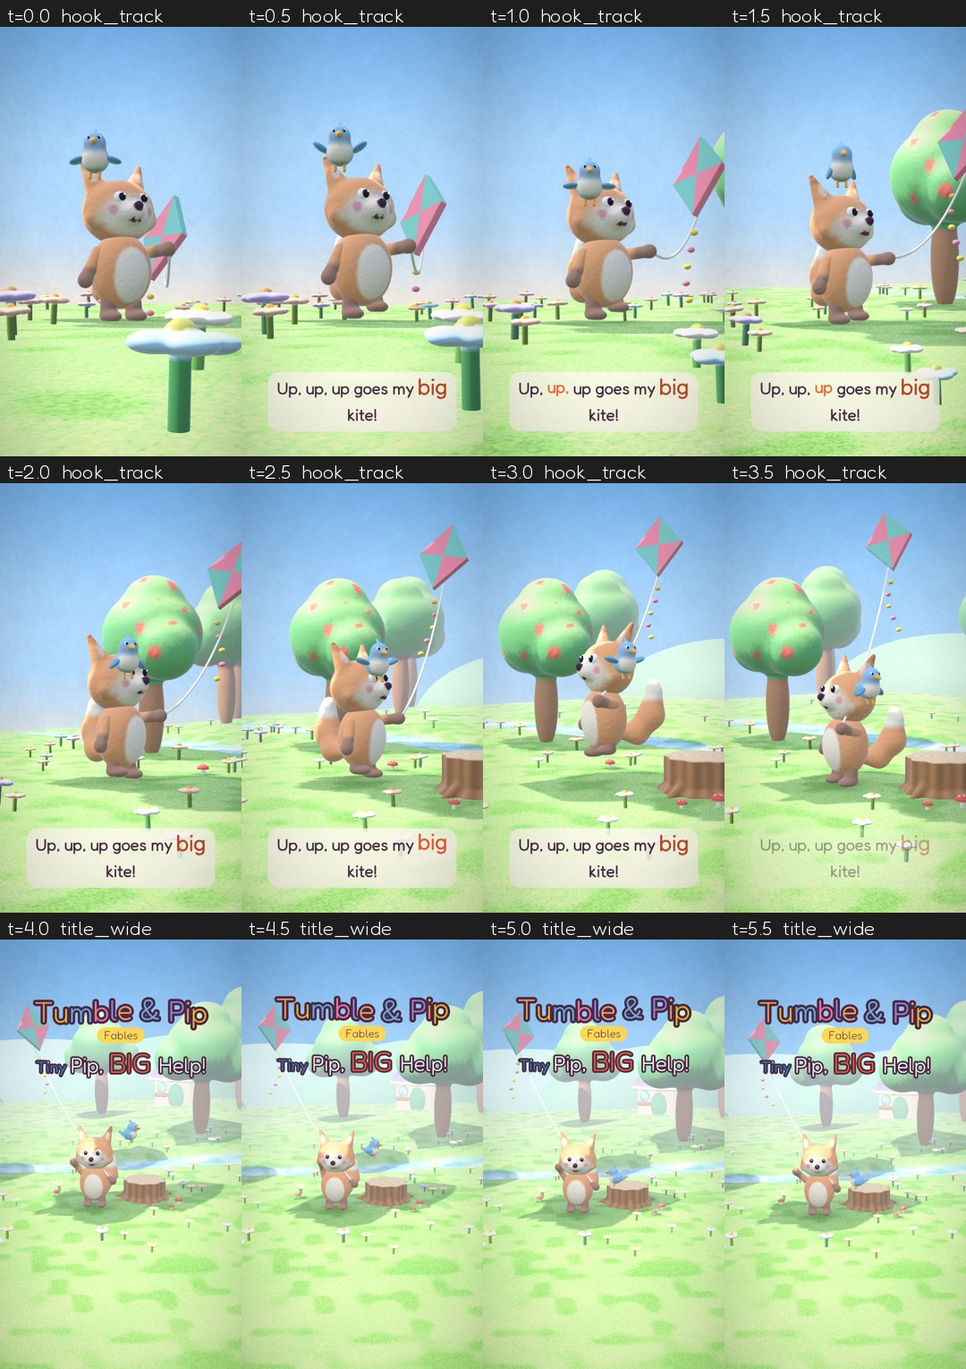
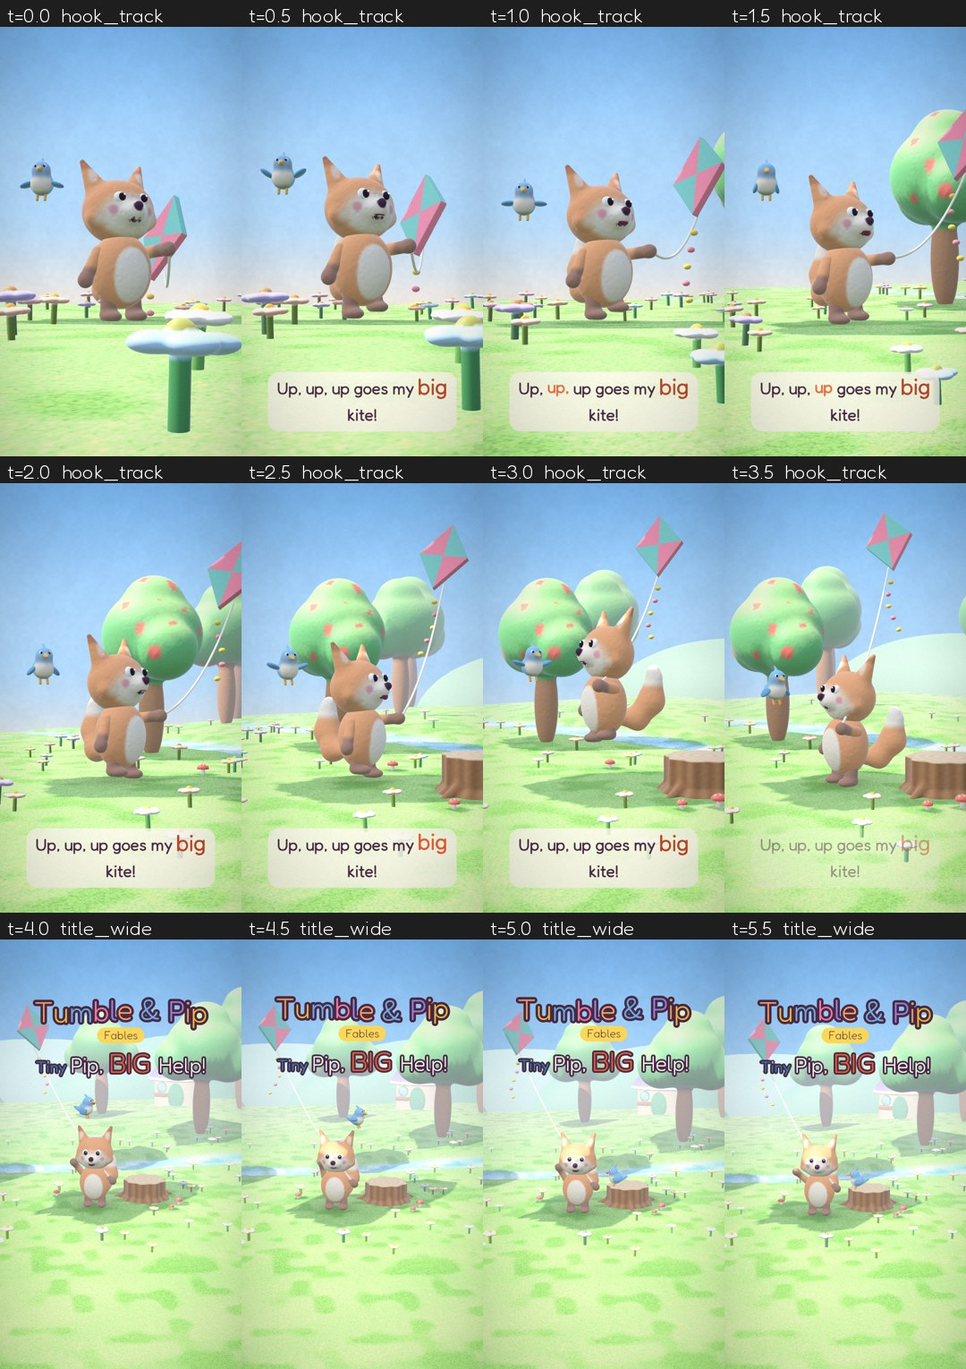
Fable 1: reviewer round 1 fixes, geometry QA back to 0
Readable peck (knot at beak height, Pip faces it, three-quarter
camera), Pip rides Tumble's paw for the series dance with a
paw-to-wing high-five, Pip beside Tumble in the hook, kite circles
above his head, cleaner take-off and button, leaves behind him.
Review log in review.md.

Claude-Session: https://claude.ai/code/session_012DiEG3BG1auD4t8c7zPpV2

diff --git a/batches/01-fables-friendship/fable-01-tiny-pip-big-help/code/render.py b/batches/01-fables-friendship/fable-01-tiny-pip-big-help/code/render.py
@@ -107,7 +107,7 @@ def tumble(t):
             st["yaw"] = math.atan2(p1[0] - p0[0], p1[1] - p0[1]) * (1 - ease(clampu(t, 2.5, 3.0))) - 0.25 * ease(clampu(t, 2.5, 3.0))
         lift = clampu(t, 2.55, 3.45)                                        # the kite tugs him up on "kite!"
         if 0 < lift < 1:
-            st["y"] += 0.38 * math.sin(math.pi * lift); st["legs"] = [0.12, 0.05]; st["sq"] += 0.06 * math.sin(math.pi * lift)
+            st["y"] += 0.62 * math.sin(math.pi * lift); st["legs"] = [0.12, 0.05]; st["sq"] += 0.06 * math.sin(math.pi * lift)
         st["arms"][0] = [0.45, 1.35 + 0.15 * lift]
         st["head"][0] = -0.2
     elif n == "title_wide":
@@ -115,12 +115,12 @@ def tumble(t):
         st["arms"][1] = [2.3 + 0.35 * math.sin((t - a) * 9), 0.25]           # waves hello
         st["head"][0] = -0.05
     elif n == "pip_ask":
-        st["head"][0] = -0.25; st["yaw"] = -0.1
+        st["head"][0] = -0.25; st["yaw"] = 0.6                              # turned towards the kite, tail swung away from Pip
         st["arms"][0] = [0.4, 1.25 + 0.08 * math.sin(t * 2)]
     elif n == "tumble_no":
         a, b = SH[n]
         u = ease(clampu(t, a, a + 0.6))
-        st["yaw"] = lerp(-0.1, math.atan2(STUMP_PIP[0] - TPOS[0], STUMP_PIP[2] - TPOS[1]) - 0.35, u)   # turns to Pip on the stump
+        st["yaw"] = lerp(0.6, math.atan2(STUMP_PIP[0] - TPOS[0], STUMP_PIP[2] - TPOS[1]) - 0.35, u)   # turns to Pip on the stump
         L = T.line("Setup B")
         if L["t0"] - 0.2 < t < L["t1"] + 0.6:                                # kind, wrong: chuckles and shakes his head
             k = (t - L["t0"])
@@ -168,23 +168,24 @@ def tumble(t):
         a, b = SH[n]
         st["yaw"] = -0.05; st["hold"] = False
         st["arms"] = [[1.3, 0.35], [0.15, 0.0]]                           # Pip sits on his raised paw, clear of his face
-        st["head"][0] = -0.05; st["head"][2] = -0.07          # paw out at shoulder height, head tipped away (pose solved for clearance)
+        st["head"][0] = -0.05; st["head"][2] = 0.08          # paw out at shoulder height, head tipped away (pose solved for clearance)
         L = T.line("Moral")
         if L and L["t0"] < t < L["t1"] + 0.3: st["y"] += 0.025 * abs(math.sin((t - L["t0"]) * 8))
     elif n == "chorus":
         a, b = SH[n]
         st["yaw"] = -0.05; st["hold"] = False
-        sway = math.sin(2 * math.pi * (t - a) / (2 * BEAT))                   # sway on every second beat
-        st["roll"] = 0.11 * sway; st["head"][2] = 0.1 * sway
-        st["arms"] = [[1.15, 0.2], [0.7 - 0.3 * sway, 0.3]]                 # paw out to link with Pip's wing
-        hf = clampu(t, T.HIGH_FIVE - 0.35, T.HIGH_FIVE + 0.15)
-        if hf > 0: st["arms"][0] = [lerp(1.15, 2.4, ease(hf)), 0.2]
+        sway = math.sin(2 * math.pi * (t - a) / (2 * BEAT))                   # sway on every second beat, Pip riding his paw
+        st["roll"] = 0.06 * sway; st["head"][2] = 0.1                                  # tips away from Pip (positive roll moves the crown to -x)
+        st["arms"] = [[1.3, 0.35], [0.6 - 0.3 * sway, 0.3]]
+        hf = clampu(t, T.HIGH_FIVE - 0.35, T.HIGH_FIVE + 0.35)
+        if 0 < hf < 1: st["arms"][0] = [1.3 + 0.3 * math.sin(math.pi * hf), 0.35]       # paw comes up to meet Pip's wing
     elif n == "button_crane":
         a, b = SH[n]
         st["yaw"] = -0.05; st["hold"] = False
         ph = (t - a) * 2 * math.pi * 1.5
-        st["arms"] = [[2.4 + 0.25 * math.sin(ph), 0.2], [2.4 + 0.25 * math.sin(ph + 1), 0.2]]   # cheers
-        st["y"] += 0.08 * abs(math.sin(ph * 0.5)); st["head"][0] = -0.3
+        up_ = ease(clampu(t, a + 0.45, a + 0.8))                           # the paw Pip leaves from rises only once he is clear
+        st["arms"] = [[lerp(1.3, 2.4 + 0.25 * math.sin(ph), up_), lerp(0.35, 0.2, up_)], [2.4 + 0.25 * math.sin(ph + 1), 0.2]]   # cheers
+        st["y"] += 0.08 * abs(math.sin(ph * 0.5)); st["head"][0] = -0.3 * up_; st["head"][2] = 0.1 * (1 - up_)   # keeps the chorus tilt until Pip is clear
     if n in ("chorus", "button_crane", "moral"): st["x"], st["z"] = TPOS
     return st
 
@@ -242,7 +243,7 @@ def kite_state(t, st):
 def orbit_pos(t):
     ang = kite_orbit_angle(min(max(t, ORBIT_A), ORBIT_B))
     u = clampu(t, ORBIT_A, ORBIT_B)
-    r = lerp(2.6, 1.4, u); hgt = lerp(3.2, 1.7, u)
+    r = lerp(2.6, 1.8, u); hgt = lerp(3.4, 2.6, u)                       # circles above head height
     return np.array([TPOS[0] + r * math.sin(ang), hgt + 0.15 * math.sin(t * 5), TPOS[1] + r * math.cos(ang)])
 
 # ---------------- string ----------------
@@ -271,7 +272,8 @@ def string_path(t, st, mats, kite_p, pip_beak):
     w = wrap_amt(t)
     kite_low = kite_p + np.array([0, -0.55, 0])                            # bridle point under the diamond
     if t >= SH["button_crane"][0] + 0.25 and pip_beak is not None:
-        return [pip_beak] + sag_line(pip_beak, kite_low, 0.25, 30)[1:]
+        lowk = 1 - clampu(kite_p[1], 0.3, 2.5) / 2.5                         # droops across the grass while the kite is still low
+        return [pip_beak] + sag_line(pip_beak, kite_low, 0.25 + 1.2 * lowk, 30)[1:]
     if st["hold"] and w < 0.05:
         return sag_line(hand, kite_low, 0.35 if t < T.GUST0 else 0.1, 30)
     if t < T.SPIN0:
@@ -290,10 +292,13 @@ def string_path(t, st, mats, kite_p, pip_beak):
 # ---------------- Pip ----------------
 PIP_FOOT = 0.060
 UP = np.array([0, PIP_FOOT, 0])
+PAW_TOP = 0.088                              # paw sphere radius 0.1, minus a little so the feet rest on the clay
 STUMP_PIP = np.array([STUMP[0] - 0.4, surf(*STUMP) + STUMP_TOP, STUMP[1] + 0.12]) + UP
+KNOT_L = (-0.22, 0.78, COIL_RZ + 0.04)       # on the coil, low on his chest once he lies on his side (beak height)
 def knot_ground(R):
-    c = apply(R, (0.0, 0.78, COIL_RZ + 0.3))                                 # in front of his chest while he lies down
-    return np.array([c[0], surf(c[0], c[2]), c[2]]) + UP, c
+    """Pip's spot in front of the knot, and the knot itself"""
+    kc = apply(R, KNOT_L); f = apply(R, (KNOT_L[0], KNOT_L[1], KNOT_L[2] + 0.24))
+    return np.array([f[0], surf(f[0], f[2]), f[2]]) + UP, kc
 def pip_state(t, st, mats):
     """returns pos, yaw, flying, pitch, perch flag, extra dict"""
     R, Mh, arms, legs = mats
@@ -301,13 +306,13 @@ def pip_state(t, st, mats):
     def on_ground(x, z): return np.array([x, surf(x, z), z]) + UP
     yaw_to_tumble = math.atan2(st["x"] - STUMP_PIP[0], st["z"] - STUMP_PIP[2])
     if n == "hook_track":
-        p = np.array([st["x"] + 0.9, 1.7 + 0.2 * math.sin(t * 5), st["z"] + 0.5])
+        p = np.array([st["x"] - 0.6, 1.65 + 0.2 * math.sin(t * 5), st["z"] + 1.0])   # same depth as Tumble, beside him on screen
         return p, 1.3, True, 0.0, False, {}
     if n == "title_wide":
         a, b = SH[n]; u = clampu(t, a, a + 1.4)
-        p0 = np.array([TPOS[0] + 0.9, 1.7, TPOS[1] + 0.5])
+        p0 = np.array([TPOS[0] - 0.6, 1.65, TPOS[1] + 1.0])
         if u < 1:
-            p = lerp(p0, STUMP_PIP, ease(u)); p[1] += 0.5 * math.sin(math.pi * u)
+            p = lerp(p0, STUMP_PIP, ease(u)); p[1] += 1.5 * math.sin(math.pi * u)        # arcs high over Tumble's head
             return p, 1.0, True, 0.0, False, {}
         return STUMP_PIP, yaw_to_tumble - 0.5, False, 0.0, True, {}
     if n == "pip_ask":
@@ -327,12 +332,13 @@ def pip_state(t, st, mats):
         return STUMP_PIP, yaw_to_tumble + 0.15 * g * math.sin(t * 15), False, -0.12 * g, True, {"cling": g}
     if n == "overhead_tangled":
         a, b = SH[n]
-        dest, _ = knot_ground(R)
+        dest, kc = knot_ground(R)
         u = clampu(t, a + 0.5, a + 1.8)
         if u < 1:
             p = lerp(STUMP_PIP, dest, ease(u)); p[1] += 0.9 * math.sin(math.pi * u)
             return p, math.atan2(dest[0] - STUMP_PIP[0], dest[2] - STUMP_PIP[2]), u > 0, 0.0, False, {}
-        return dest, math.atan2(st["x"] - dest[0], st["z"] - dest[2]), False, 0.0, False, {}
+        kc = knot_ground(R)[1]
+        return dest, math.atan2(kc[0] - dest[0], kc[2] - dest[2]), False, 0.0, False, {}
     if n == "peck":
         dest, c = knot_ground(R)
         pitch = 0.0
@@ -361,24 +367,22 @@ def pip_state(t, st, mats):
         return top, 0.35, False, 0.0, True, {}
     if n == "chorus":
         a, b = SH[n]
-        u = clampu(t, a, a + 0.6)
-        if u < 1:
-            hand = apply(fox_mats(tumble(SH["moral"][1] - 0.01))[2][0], FOXD["arm0"]["hand"]) + np.array([0, 0.095, 0]) + UP
-            p = lerp(hand, STUMP_PIP, ease(u)); p[1] += 0.3 * math.sin(math.pi * u); p[0] += 0.25 * math.sin(math.pi * min(1.0, 2 * u))   # out, away from his face
-            return p, 0.6, True, 0.0, False, {}
-        p = STUMP_PIP.copy()
+        top = apply(arms[0], FOXD["arm0"]["hand"]) + np.array([0, PAW_TOP, 0]) + UP
         sway = math.sin(2 * math.pi * (t - a) / (2 * BEAT))
-        hf = clampu(t, T.HIGH_FIVE - 0.3, T.HIGH_FIVE + 0.4)
-        ex = {"link": hf <= 0, "sway": sway}
-        if hf > 0:
-            p[1] += 0.55 * math.sin(math.pi * hf); ex["highfive"] = True
-        return p, -0.9, hf > 0, 0.0, hf <= 0, ex
+        hf = clampu(t, T.HIGH_FIVE - 0.35, T.HIGH_FIVE + 0.35)
+        ex = {"sway": sway}
+        if 0 < hf < 1:                                                      # hops up, wing down to slap the rising paw
+            top = top + np.array([0, 0.42 * math.sin(math.pi * hf), 0]); ex["highfive"] = True
+            return top, 0.35, True, 0.0, False, ex
+        return top, 0.35, False, 0.0, True, ex
     # button: Pip grabs the loose string end and flies the kite up
     a, b = SH["button_crane"]
     u = clampu(t, a, b)
-    p0 = STUMP_PIP; p1 = np.array([TPOS[0] + 0.7, 2.7, TPOS[1] + 0.2])
-    p = lerp(p0, p1, ease(u)) + np.array([0, 0.08 * math.sin(t * 9), 0])
-    return p, -0.3, True, -0.15, False, {"beak": True}
+    p0 = apply(arms[0], FOXD["arm0"]["hand"]) + np.array([0, PAW_TOP, 0]) + UP if t < a + 0.05 else apply(fox_mats(tumble(a - 0.01))[2][0], FOXD["arm0"]["hand"]) + np.array([0, PAW_TOP, 0]) + UP
+    p1 = np.array([TPOS[0] + 0.7, 2.7, TPOS[1] + 0.2])
+    p = lerp(p0, p1, ease(u)) + np.array([0, 0.08 * math.sin(t * 9), 0]) * u
+    p += np.array([0.55, 0.15, 0.25]) * math.sin(math.pi * min(1.0, u * 1.6))     # out and away from his face first
+    return p, lerp(0.35, -0.3, ease(clampu(t, a + 0.3, a + 0.9))), True, -0.15 * clampu(t, a + 0.2, a + 0.5), False, {"beak": True}   # keeps the chorus heading until clear
 
 # ---------------- camera (aspect-fitted) ----------------
 def fit_cam(tgt, yaw_deg, pitch_deg, fit_w, fit_h, fov=38.0, lift=None):
@@ -404,7 +408,7 @@ def camera(t):
         return fit_cam(np.array([2.0, 1.6 + 0.3 * e, -1.0]), -8, 12 - 2 * e, 3.4, 3.2 if not WIDE else 2.4, lift=0.05)
     if name == "pip_ask":                                                   # macro on Pip on the stump
         e = ease(u)
-        return fit_cam(STUMP_PIP + np.array([0, 0.25, 0]), lerp(28, 20, e), 6, 0.42, 0.55, fov=34)
+        return fit_cam(STUMP_PIP + np.array([0.12 if WIDE else 0.0, 0.25, 0]), lerp(28, 20, e) if not WIDE else lerp(16, 22, e), 6, 0.42, 0.55, fov=34)
     if name == "tumble_no":                                                 # over Pip's shoulder at Tumble
         e = ease(u)
         tgt = lerp(STUMP_PIP + np.array([0, 0.3, 0]), tp + np.array([0, 0.6, 0]), 0.78)
@@ -421,19 +425,19 @@ def camera(t):
     if name == "peck":                                                      # macro at the knot
         e = ease(u)
         R = fox_mats(st)[0]
-        _, c = knot_ground(R)
-        pg = knot_ground(R)[0]
-        tgt = lerp(c, pg, 0.4)
-        ax = math.degrees(math.atan2(c[0] - pg[0], c[2] - pg[2]))            # Pip-to-knot axis; film it side-on
-        yaw = min((ax + 90, ax - 90), key=lambda y: -math.cos(math.radians(y)))
-        return fit_cam(tgt + np.array([0, 0.08, 0]), yaw + lerp(-8, 4, e), 10, 0.6, 0.7, fov=34)
+        pg, kc = knot_ground(R)
+        tgt = lerp(kc, pg, 0.5); tgt[1] = 0.4
+        ax = math.degrees(math.atan2(kc[0] - pg[0], kc[2] - pg[2]))          # Pip-to-knot axis; film it side-on
+        yaw = min((ax + 118, ax - 118), key=lambda y: -math.cos(math.radians(y)))   # three-quarter front of Pip, knot in profile
+        return fit_cam(tgt, yaw + lerp(-6, 6, e), 8, 0.62, 0.62, fov=34, lift=0.12)
     if name == "spin_out":                                                  # wide: spins up like a top
-        return fit_cam(np.array([TPOS[0] + 0.35, 1.05, TPOS[1]]), -6, 6, 1.9, 1.7)
+        e = ease(clampu(t, SH[name][0], T.SPIN1))
+        return fit_cam(np.array([lerp(TPOS[0] - 0.5, TPOS[0] + 0.35, e), 1.05, TPOS[1]]), -6, 6, lerp(2.4, 1.9, e), 1.7)
     if name == "moral":                                                     # slow push-in two-shot
         e = ease(u)
         return fit_cam(np.array([TPOS[0] + 0.35, lerp(1.35, 1.45, e), TPOS[1]]), lerp(12, 6, e), 5, lerp(1.25, 1.05, e), lerp(1.4, 1.1, e))
     if name == "chorus":                                                    # medium front, both in frame for the dance
-        return fit_cam(np.array([(TPOS[0] + STUMP_PIP[0]) / 2, 1.05, (TPOS[1] + STUMP_PIP[2]) / 2]), 6, 6, 1.45, 1.35)
+        return fit_cam(np.array([TPOS[0] + 0.35, 1.2, TPOS[1]]), 6, 6, 1.3, 1.35)
     # button: crane up following the kite
     e = ease(u)
     return fit_cam(np.array([TPOS[0] + 0.1, lerp(1.2, 2.6, e), TPOS[1] - 0.5]), 4, lerp(4, 18, e), lerp(1.7, 2.6, e), lerp(1.8, 2.6, e), lift=0.06)
@@ -491,8 +495,8 @@ def build_draws(t):
     if g > 0.01:                                                            # blowing leaves show the gust
         for k in range(16):
             ph = (t * 0.55 + k / 16.0) % 1.0
-            x = TPOS[0] - 4.5 + 9.0 * ph; z = TPOS[1] - 1.5 + 3.0 * ((k * 0.37) % 1.0)
-            y = 0.4 + 1.6 * ((k * 0.61) % 1.0) + 0.3 * math.sin(t * 4 + k)
+            x = TPOS[0] - 4.5 + 9.0 * ph; z = TPOS[1] - 0.9 - 2.4 * ((k * 0.37) % 1.0)          # a band behind him, clear of faces
+            y = 0.3 + 1.9 * ((k * 0.61) % 1.0) + 0.25 * math.sin(t * 4 + k)
             draws.append((SC["leaf"], trans(x, y, z) @ rotz(t * 7 + k) @ rotx(t * 5 + k) @ scale(1.6 * g),
                           U(mat=0, bump=0.0, tint=(0.55, 0.8, 0.45) if k % 3 else (0.95, 0.75, 0.4), tintMix=1.0), False))
     # ---- Tumble ----
@@ -510,7 +514,7 @@ def build_draws(t):
     fi_ = min(int(t * FPS), len(MOUTH["tumble"]) - 1)
     mo = MOUTH["tumble"][fi_]
     if mo > 0.06:
-        draws.append((PR["mouth"], Mh @ trans(*FOXD["mouth"]["c"]) @ scale(0.075, 0.065 * mo, 0.03), U(mat=0, bump=0.0), False))
+        draws.append((PR["mouth"], Mh @ trans(*(np.array(FOXD["mouth"]["c"]) + np.array([0, 0, 0.015]))) @ scale(0.085, 0.07 * mo, 0.035), U(mat=0, bump=0.0), False))
     if st["lie"] < 0.5: contacts.append((st["x"], st["z"], 0.75, max(0.0, 1 - st["y"] * 1.5)))
     else: contacts.append((st["x"] - 0.4, st["z"], 1.0, 1.0))
     # ---- Pip ----
@@ -519,7 +523,8 @@ def build_draws(t):
     sq = -0.12 * pex.get("cling", 0.0)
     Mp = trans(*pp) @ roty(pyaw) @ rotx(ppitch) @ scale(1.1 * (1 - sq * 0.5), 1.1 * (1 + sq), 1.1 * (1 - sq * 0.5))
     draws.append((PIPP["body"], Mp, dict(up, perch=pperch), True))
-    if pfly: flap = 0.9 * math.sin(t * 28)
+    if pfly and pex.get("beak") and t < SH["button_crane"][0] + 0.35: flap = -0.1 + 0.6 * clampu(t, SH["button_crane"][0], SH["button_crane"][0] + 0.35) * (0.5 + 0.5 * math.sin(t * 28))   # take-off flaps stay up, clear of his cheek
+    elif pfly: flap = 0.9 * math.sin(t * 28)
     elif pex.get("droop"): flap = 0.04 - 0.25 * pex["droop"]
     elif pex.get("cheer"): flap = 1.1 + 0.5 * math.sin(t * 14)
     else: flap = 0.04 + 0.04 * math.sin(t * 3)
@@ -528,7 +533,7 @@ def build_draws(t):
         fl = flap
         if wi == 0 and pex.get("point"): fl = 1.3 + 0.12 * math.sin(t * 10)
         if pex.get("link") and wi == 1: fl = 0.9 + 0.15 * pex.get("sway", 0.0)          # wing out to Tumble's paw
-        if pex.get("highfive") and wi == 1: fl = 1.6
+        if pex.get("highfive") and wi == 0: fl = -0.6                    # wing swings down onto the paw
         Mw = Mp @ trans(*pv) @ rotz(sgn * fl) @ trans(*(-np.array(pv)))
         draws.append((PIPP[f"wing{wi}"], Mw, up, True))
     eyes(draws, Mp, PIPD["eyes"]["centers"], PIPD["eyes"]["r"], blink(t, 1.3, 2.7), U)
@@ -537,6 +542,13 @@ def build_draws(t):
         draws.append((PR["mouth"], Mp @ trans(0, 0.295, 0.19) @ scale(0.028, 0.022 * mp_, 0.02), U(mat=0, bump=0.0), False))
     if not pfly: contacts.append((pp[0], pp[2], 0.2, 1.0))
     beak = apply(Mp, (0, 0.31, 0.27)) if pex.get("beak") else None
+    d_hf = t - T.HIGH_FIVE
+    if 0 <= d_hf < 0.4 and T.shot_at(t)[1] == "chorus":                     # star puff on the high-five
+        hc = apply(arms[0], FOXD["arm0"]["hand"]) + np.array([0, 0.2, 0])
+        for k in range(8):
+            a_ = k * 2 * math.pi / 8
+            q = hc + np.array([math.cos(a_), math.sin(a_), 0.3]) * (0.12 + 0.7 * d_hf)
+            draws.append((PR["ball"], trans(*q) @ scale(0.05 * (1 - d_hf / 0.4)), U(mat=0, bump=0.0, tint=(1.0, 0.88, 0.35), tintMix=1.0), False))
     # ---- kite, string, knot ----
     kp, kR = kite_state(t, st)
     Mk = trans(*kp) @ kR @ scale(1.15)
@@ -554,21 +566,21 @@ def build_draws(t):
         M = seg_M(np.asarray(a_), np.asarray(b_), 0.02)
         if M is not None: draws.append((PR["stick"], M, U(mat=0, bump=0.0, tint=(0.98, 0.96, 0.9), tintMix=1.0), False))
     if wrap_amt(t) >= 0.999 and t < T.SHOTS[[n for a, b, n in T.SHOTS].index("spin_out")][0]:
-        kc = apply(R, (0.0, 0.78, COIL_RZ + 0.02))
+        kc = apply(R, KNOT_L)
         pop = clampu(t, T.KNOT_POP, T.KNOT_POP + 0.12)
         if t < T.KNOT_POP + 0.25:
             jig = 0.0
             for pt in T.PECKS:
                 d = t - pt
                 if 0 <= d < 0.2: jig = 0.3 * math.sin(math.pi * d / 0.2)
-            draws.append((PR["ball"], trans(*kc) @ scale(0.055 * (1 + jig + 0.8 * pop) * (1 - clampu(t, T.KNOT_POP + 0.12, T.KNOT_POP + 0.25))),
+            draws.append((PR["ball"], trans(*kc) @ scale(0.075 * (1 + jig + 0.8 * pop) * (1 - clampu(t, T.KNOT_POP + 0.12, T.KNOT_POP + 0.25))),
                           U(mat=0, bump=0.0, tint=(0.98, 0.96, 0.9), tintMix=1.0), False))
         if 0 <= t - T.KNOT_POP < 0.45:                                      # pop puff
             d = t - T.KNOT_POP
             for k in range(7):
                 a_ = k * 2 * math.pi / 7
-                p = kc + np.array([math.cos(a_), math.sin(a_), 0.4]) * (0.1 + 0.6 * d)
-                draws.append((PR["ball"], trans(*p) @ scale(0.03 * (1 - d / 0.45)), U(mat=0, bump=0.0, tint=(1.0, 0.95, 0.7), tintMix=1.0), False))
+                p = kc + np.array([math.cos(a_), math.sin(a_), 0.5]) * (0.1 + 0.9 * d)
+                draws.append((PR["ball"], trans(*p) @ scale(0.055 * (1 - d / 0.45)), U(mat=0, bump=0.0, tint=(1.0, 0.95, 0.7), tintMix=1.0), False))
     return draws, contacts
 
 def draw_pass(draws, contacts, eye, tgt, fov, vp):

diff --git a/batches/01-fables-friendship/fable-01-tiny-pip-big-help/code/timeline.py b/batches/01-fables-friendship/fable-01-tiny-pip-big-help/code/timeline.py
@@ -119,5 +119,5 @@ WHOOSH = (word_times("whoosh", "Problem A") or [_pa[0] + 0.2])[0]
 KNOT_POP = (PECKS[-1] if PECKS else _tw[0] + 2.5) + 0.45
 GUST0, GUST1 = WHOOSH - 0.2, _pa[1] - 0.3             # kite swoops and circles Tumble
 TOPPLE = (word_times("tangled", "Problem B") or [_pb[0] + 1.4])[0]   # he tips over on "tangled", lands by "ground"
-SPIN0, SPIN1 = TW_SPLIT + 0.25, TW_SPLIT + 1.9
+SPIN0, SPIN1 = TW_SPLIT + 0.05, TW_SPLIT + 1.9
 HIGH_FIVE = _c[1] - 0.9

diff --git a/batches/01-fables-friendship/fable-01-tiny-pip-big-help/review.md b/batches/01-fables-friendship/fable-01-tiny-pip-big-help/review.md
@@ -1,0 +1,41 @@
+# Review log: Tumble & Pip Fables 1, Tiny Pip, Big Help!
+
+The independent reviewer subagent followed `tools/REVIEWER.md`. It worked from contact sheets with one frame every
+0.5 s in both aspects (9:16 Short and 16:9 episode framing), plus geometry QA (`qa_geom.py`, 15 fps). The review is
+at the animatic stage: there is no audio yet and word times are estimated on the 100 BPM grid.
+
+## Geometry QA before the reviewer
+
+- First run: 45 issues. Causes:
+  - Tumble's tail swung into the stump; fixed by moving his spot.
+  - The resting kite sat under his head once he fell; fixed by moving it in front of him.
+  - He spun before standing up; fixed by standing him up first.
+  - Pip's wing brushed his face on the paw perch; fixed by solving the paw pose numerically for clearance.
+  - Pip's hops were flagged as floating; they were intentional, so the perch flag now drops during a hop.
+- Then 11 issues, then 2, then **0**.
+
+## Round 1: FAIL (4 HIGH, 10 MED)
+
+- **HIGH (both aspects), peck shot.** Pip faced away from the knot and no knot was visible. Cause: Pip stood directly
+  under the point he was meant to face, so his heading was undefined. Fixed:
+  - The knot now sits low on the coil at beak height, and is bigger with a bigger pop puff.
+  - Pip faces the knot.
+  - The camera films the shot three-quarter front.
+- **HIGH (both), chorus dance.** The paw and wing never touched, and the high-five missed. Fixed: Pip rides Tumble's
+  outstretched paw through the whole chorus (no flight across the moral-to-chorus cut). They sway together, and on
+  the high-five Pip hops up while the paw rises to meet his wing, with a star puff.
+- **MED, hook.** Pip seemed to sit inside Tumble's head (a perspective overlap). Fixed: Pip flies at Tumble's depth,
+  beside him on screen. The kite's tug is now 0.62 high instead of 0.38.
+- **MED, gust.** The kite crossed his face. Fixed: it now circles above head height (radius 1.8, height 2.6 at the end).
+- **MED, button.** The kite rose through his head. Fixed: it lifts straight up first.
+- **MED, overhead.** Pip landed on the string, not at the chest. Fixed by the new knot target.
+- **MED, spin-out start.** He was still horizontal with his face cut off. Fixed: the rise starts at the cut and the
+  camera starts wider, centred on him.
+- **LOW items fixed:**
+  - Leaves crossing his forehead: the leaves now blow in a band behind him.
+  - Foreground tail in the 16:9 Pip close-up: Tumble turns towards the kite and that camera is re-angled.
+  - The mouth reading as a smear: it is a little larger and sits in front of the smile line.
+
+## Round 2
+
+See below once it has run.

diff --git a/batches/01-fables-friendship/fable-01-tiny-pip-big-help/plan.md b/batches/01-fables-friendship/fable-01-tiny-pip-big-help/plan.md
@@ -16,7 +16,7 @@ Picnic Meadow, and the wind tugs him off his feet. His tiny bird friend Pip, per
 and Tumble kindly says the kite is too big for tiny wings. A gust swings the kite round and round him until he is wrapped
 up like a parcel and topples over in the grass. Pip flies down and pecks the knot, peck, peck, peck, and Tumble spins
 free like a top, dizzy and laughing. With Pip sitting on his paw, Tumble sings the moral: tiny friends can be big
-helpers. They do the series dance (link paw and wing, sway, high-five), and Pip flies the kite back up into the sky.
+helpers. They do the series dance (Pip rides Tumble's paw, they sway, then a paw-to-wing high-five), and Pip flies the kite back up into the sky.
 Gentle storybook folk at 100 BPM in D major with acoustic guitar, glockenspiel, bassoon for Tumble and tin whistle for Pip.
 
 ## Change from the batch plan
@@ -58,8 +58,8 @@ Syllable budget: every line at or under 3 syllables per second.
 | 8 | 27.6-31.2 | macro, side-on | Pip pecks the knot on each sung "peck"; the knot pops open with a puff |
 | 9 | 31.2-34.8 | wide | Tumble rises and spins three times as the string unwinds onto the grass ("Wheee!"), dizzy, laughs; Pip cheers |
 | 10 | 34.8-38.4 | push-in two-shot | Pip hops onto Tumble's raised paw; the moral card |
-| 11 | 38.4-45.6 | medium front | the series dance: paw and wing linked, sway on every second beat, high-five |
-| 12 | 45.6-48.0 | crane up | Pip takes the string in his beak and flies the kite back up; Tumble cheers |
+| 11 | 38.4-45.6 | medium front | the series dance: Pip rides Tumble's outstretched paw, they sway on every second beat, then a paw-to-wing high-five with a star puff |
+| 12 | 45.6-48.0 | crane up | Pip takes off from the paw with the string in his beak and flies the kite back up; Tumble cheers |
 
 Camera types: tracking, wide, macro, over-the-shoulder, low angle push-in, medium, overhead, crane. 11 hard cuts.
 Shortest shot 2.4 s.

diff --git a/batches/01-fables-friendship/plan.md b/batches/01-fables-friendship/plan.md
@@ -33,7 +33,7 @@
 | Leitmotifs | low reed (bassoon-like) doubles Tumble's lines, tin whistle doubles Pip's lines, as in Episode 2. |
 | Theme sting | 2 s: "Tumble and Pip!" sung on a fixed 4-note figure, with the two leitmotifs. Recorded once, reused in every Short and the episode. |
 | Moral chorus | fixed melody and lyrics, 6 to 9 s, recorded once (see "Song plan"). Ends every Short. |
-| Copyable move | in the moral chorus, Tumble and Pip link paw and wing and sway twice, then a high-five. Same move in every Short. |
+| Copyable move | in the moral chorus, Pip rides Tumble's outstretched paw and they sway together on every second beat, then Pip hops up for a paw-to-wing high-five (star puff). Same move in every Short. Children copy it with one hand out, a sway and a high-five. |
 | Captions | big, rounded, bottom third. The moral line gets a yellow "moral card" style used only for morals. |
 | Look | SDF clay with the thumbprint shader, soft shadows, saturated characters, softer backgrounds, as in Episode 2. |
 
